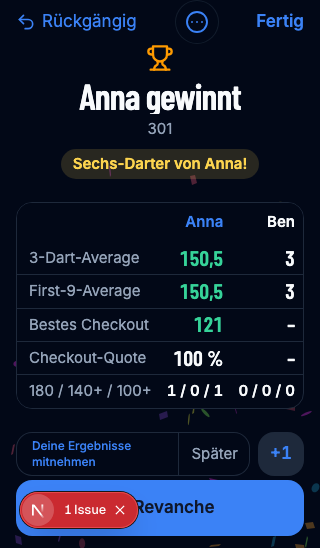
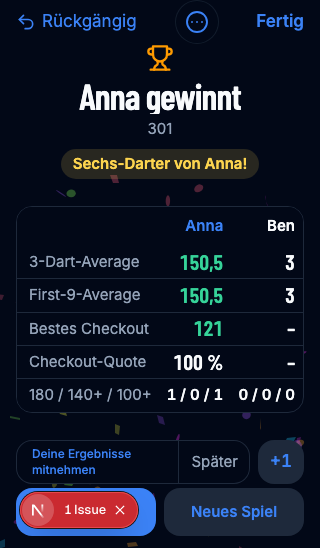
Update visual review for visible game actions

diff --git a/docs/ux/ui-density-review/plan.html b/docs/ux/ui-density-review/plan.html
@@ -11,27 +11,27 @@
 <header class="hero"><div class="wrap"><div class="eyebrow">BlueLine · UI / UX review</div><h1>A cleaner game, with the details in reach.</h1><p>Before-and-after evidence, an adversarial review, and the remaining plan for the 15 reported issues.</p><div class="meta"><span>Branch: ux/darts-usability</span><span>Baseline: origin/main · 2a857eb</span><span>Review: 28 October 2026</span></div></div></header>
 <nav aria-label="Page sections"><div class="wrap"><a href="#overview">Overview</a><a href="#compare">Before / after</a><a href="#assessment">15 issues</a><a href="#review">Red / blue review</a><a href="#plan">Delivery plan</a><a href="#evidence">Evidence</a></div></nav>
 <main class="wrap">
-<section id="overview"><h2>What changed</h2><p class="lead">The branch gives the result statistics more room, makes leaderboard sections visible, reduces repeated club empty states, and improves several smaller screens. This is a review of the current branch and a plan for the remaining work.</p><div class="grid"><div class="card"><div class="number">722</div><h3>Automated tests passed</h3><p>Full unit suite, plus type checking and lint, passed after the latest UI changes.</p></div><div class="card"><div class="number">3</div><h3>Viewport sizes checked</h3><p>320 × 548, 568 × 320, and 768 × 1024 in Chromium. Coverage differs by screen.</p></div><div class="card"><div class="number">2</div><h3>Languages exercised</h3><p>German and English: keyboard navigation and applying the leaderboard filters.</p></div></div><div class="notice"><strong>Review state:</strong> the red-team analysis and proposed blue-team responses are documented below. Several responses remain implementation or verification work; this page does not claim the 15 issues are all finished.</div></section>
+<section id="overview"><h2>What changed</h2><p class="lead">The branch gives the result statistics more room, makes leaderboard sections visible, reduces repeated club empty states, and improves several smaller screens. This is a review of the current branch and a plan for the remaining work.</p><div class="grid"><div class="card"><div class="number">723</div><h3>Automated tests passed</h3><p>Full unit suite, plus type checking and lint, passed after the latest UI changes.</p></div><div class="card"><div class="number">3</div><h3>Viewport sizes checked</h3><p>320 × 548, 568 × 320, and 768 × 1024 in Chromium. Coverage differs by screen.</p></div><div class="card"><div class="number">2</div><h3>Languages exercised</h3><p>German and English: keyboard navigation and applying the leaderboard filters.</p></div></div><div class="notice"><strong>Review state:</strong> the red-team analysis and proposed blue-team responses are documented below. Several responses remain implementation or verification work; this page does not claim the 15 issues are all finished.</div></section>
 <section id="compare"><h2>Before and after</h2><p class="lead">These are real browser captures. Sample data, theme and language are identified below each pair; compare the layout and hierarchy, not the numerical results.</p><div class="pairs">
-<article class="pair"><div class="pair-head"><div><h3>01 · Result on a small phone</h3><div class="small">Secondary actions move to a menu; the statistics gain vertical space.</div></div><span class="tag done">Implemented</span></div><div class="compare"><figure class="frame"><b>Before · main</b><img src="before-result-320.jpg" alt="Original result on a small phone with two large buttons and four secondary actions"><figcaption class="caption">320 × 548; English; stake shown.</figcaption></figure><figure class="frame"><b>After · branch</b><img src="dart-result-320.png" alt="Updated result on a small phone with one primary button and a menu"><figcaption class="caption">320 × 548; German; profile notice shown. Different sample state.</figcaption></figure></div></article>
+<article class="pair"><div class="pair-head"><div><h3>01 · Result on a small phone</h3><div class="small">Rematch and new game share one row; secondary actions move to a menu, giving the statistics more room.</div></div><span class="tag done">Implemented</span></div><div class="compare"><figure class="frame"><b>Before · main</b><img src="before-result-320.jpg" alt="Original result on a small phone with two large buttons and four secondary actions"><figcaption class="caption">320 × 548; English; stake shown.</figcaption></figure><figure class="frame"><b>After · branch</b><img src="dart-result-320.png" alt="Updated result on a small phone with two next-game actions and a menu"><figcaption class="caption">320 × 548; German; profile notice shown. Different sample state.</figcaption></figure></div></article>
 <article class="pair"><div class="pair-head"><div><h3>02 · Rangliste header</h3><div class="small">Four visible sections, one filter entry, and context moved below the standings.</div></div><span class="tag partial">Needs populated review</span></div><div class="compare"><figure class="frame"><b>Before · main</b><img src="before-ranks-320.jpg" alt="Original populated leaderboard with scrolling pills, two filters and explanation above the rows"><figcaption class="caption">320 × 548; populated fixture; light theme.</figcaption></figure><figure class="frame"><b>After · branch</b><img src="dart-ranks-320.png" alt="Updated empty leaderboard with four visible sections and one filter"><figcaption class="caption">320 × 548; empty fixture; dark theme. Rows cannot be compared with this capture.</figcaption></figure></div></article>
-<article class="pair"><div class="pair-head"><div><h3>04 · Six-player X01</h3><div class="small">Unique first names stay legible while the accessible player label retains the full name.</div></div><span class="tag partial">Collision cases open</span></div><div class="compare"><figure class="frame"><b>Before · main</b><img src="before-game-320.jpg" alt="Original six-player scoreboard with tiny long player names"><figcaption class="caption">320 × 548; long-name fixture; light theme.</figcaption></figure><figure class="frame"><b>After · branch</b><img src="dart-game-320.png" alt="Updated six-player scoreboard with shorter readable names"><figcaption class="caption">320 × 548; same example names; dark theme.</figcaption></figure></div></article>
+<article class="pair"><div class="pair-head"><div><h3>04 · Six-player X01</h3><div class="small">Short distinct names stay legible while the accessible player label retains the full name.</div></div><span class="tag partial">Collision cases open</span></div><div class="compare"><figure class="frame"><b>Before · main</b><img src="before-game-320.jpg" alt="Original six-player scoreboard with tiny long player names"><figcaption class="caption">320 × 548; long-name fixture; light theme.</figcaption></figure><figure class="frame"><b>After · branch</b><img src="dart-game-320.png" alt="Updated six-player scoreboard with shorter readable names"><figcaption class="caption">320 × 548; same example names; dark theme.</figcaption></figure></div></article>
 </div><p class="small">Additional captures: <a href="dart-result-568.png">landscape result</a>, <a href="dart-game-568.png">landscape game</a>, <a href="dart-filter-568.png">landscape filter</a>.</p></section>
 <section id="assessment"><h2>The 15 issues</h2><p class="lead">“Implemented” describes code present on the branch, not a guarantee of complete device or interaction coverage.</p><div class="tablebox"><table><thead><tr><th>Issue</th><th>Current branch</th><th>Status</th><th>Next decision or check</th></tr></thead><tbody>
-<tr><td>1 · Result</td><td>One primary action; secondary actions in a menu.</td><td><span class="tag done">Implemented</span></td><td>Verify tournament, stake and award combinations; inspect menu contrast after animation.</td></tr>
+<tr><td>1 · Result</td><td>Rematch and new game stay visible together; less frequent actions are in a menu.</td><td><span class="tag done">Implemented</span></td><td>Verify tournament, stake and award combinations; inspect menu contrast after animation.</td></tr>
 <tr><td>2 · Rangliste header</td><td>Visible segments, one filter sheet, explanation below rows.</td><td><span class="tag partial">Partial</span></td><td>Review populated rows, large text and localized labels.</td></tr>
 <tr><td>3 · Rows / duplicate player</td><td>Import badges replaced with symbols and legend; identities remain separate.</td><td><span class="tag partial">Partial</span></td><td>Design an explicit reversible identity link, with conflict protection.</td></tr>
-<tr><td>4 · Six players</td><td>Unique first names on X01; accessible label retains full name.</td><td><span class="tag partial">Partial</span></td><td>Collision, single-word names, Cricket and Clock, at compact sizes.</td></tr>
+<tr><td>4 · Six players</td><td>Short distinct labels on crowded boards; accessible labels retain full names.</td><td><span class="tag partial">Partial</span></td><td>Collision and long-name X01 checked; verify Cricket and Clock at compact sizes.</td></tr>
 <tr><td>5 · Club</td><td>Empty sections grouped; pull gesture and explicit refresh available.</td><td><span class="tag partial">Partial</span></td><td>Real touch, offline, errors, scrolling and nested interaction checks.</td></tr>
 <tr><td>6 · Finished tournament</td><td>Compact result card; “Leiten” is plain text.</td><td><span class="tag partial">Needs review</span></td><td>Capture organizer, player and award states on SE and landscape.</td></tr>
 <tr><td>7 · Explanations</td><td>Some profile and club copy shortened; leaderboard context moved.</td><td><span class="tag partial">Partial</span></td><td>Review visibility, history, setup, payment and discovery copy together.</td></tr>
 <tr><td>8 · Empty states</td><td>Recent-player empty messages are plain muted text.</td><td><span class="tag partial">Needs review</span></td><td>Verify both sheets with no candidates and with a populated list.</td></tr>
-<tr><td>9 · Other profile</td><td>Relationship, sharing and add-to-game actions still have similar weight.</td><td><span class="tag open">Open</span></td><td>Define primary action per friendship state; retain remove and withdraw actions.</td></tr>
+<tr><td>9 · Other profile</td><td>Add to game is prominent; sharing is in the bar and friendship state is quieter.</td><td><span class="tag partial">Needs review</span></td><td>Verify friendship states, sharing and both request actions on device.</td></tr>
 <tr><td>10 · Setup</td><td>Rules text moved below players into the rules group.</td><td><span class="tag partial">Partial</span></td><td>Consolidate add / scan choices; keep saved rounds discoverable.</td></tr>
 <tr><td>11 · Own profile</td><td>Scope caption remains visible because it explains the figures.</td><td><span class="tag open">Open</span></td><td>Shorten or relocate the scope without hiding its meaning.</td></tr>
 <tr><td>12 · Payment card</td><td>Fresh exchange-rate timestamp hidden; old rate and stale balance remain distinct.</td><td><span class="tag partial">Needs review</span></td><td>Check fresh, stale, unavailable and offline states.</td></tr>
 <tr><td>13 · Tournament progress</td><td>Current phase and “Step X of 5” replace tiny labels.</td><td><span class="tag partial">Needs review</span></td><td>Verify paused, finished and translated states.</td></tr>
-<tr><td>14 · Clubs / tournaments</td><td>One “+” menu contains create and scan.</td><td><span class="tag partial">Needs review</span></td><td>Update end-to-end entry paths and verify empty states.</td></tr>
+<tr><td>14 · Clubs / tournaments</td><td>Labeled scan action and create button remain visible.</td><td><span class="tag partial">Needs review</span></td><td>Update end-to-end entry paths and verify empty states.</td></tr>
 <tr><td>15 · Tablet</td><td>Game-choice cards receive more height on tablet.</td><td><span class="tag partial">Needs review</span></td><td>Check portrait and landscape; decide whether recent games add useful value.</td></tr>
 </tbody></table></div></section>
 <section id="review"><h2>Red team / blue team</h2><p class="lead">The red team asks how the interface or data can fail. The blue team proposes or applies a response. This is one code-and-browser review, not a claim of independent external testers or real-device certification.</p><div class="card">
@@ -41,7 +41,7 @@
 <div class="risk"><strong class="partial">MED · CONTEXT</strong><div><h3>Import markers must remain understandable</h3><p class="small"><b>Red:</b> an asterisk may be ambiguous or its legend may be off screen. <b>Blue:</b> provide a legend and full accessible label; verify a populated list and the player detail, with screen reader and larger text. <b>Status:</b> implemented; populated and assistive-technology review open.</p></div></div>
 <div class="risk"><strong class="partial">MED · INPUT</strong><div><h3>Segmented controls need keyboard support</h3><p class="small"><b>Red:</b> replacing scrolling pills removed arrow-key behavior. <b>Blue:</b> added arrow navigation and a single tab stop. <b>Evidence:</b> selection and focus moved correctly at 320, 568 and 768 px in German and English.</p></div></div>
 <div class="risk"><strong class="partial">MED · SPACE</strong><div><h3>Compact menus can hide essential actions</h3><p class="small"><b>Red:</b> a short landscape sheet may place its second filter below the fold; menus also add a tap. <b>Blue:</b> the filter body scrolls with Done pinned, while the chosen values remain visible. <b>Evidence:</b> Cricket and Today were selected and retained at all three sizes in both languages. Check larger text and screen readers.</p></div></div>
-<div class="risk"><strong class="partial">MED · TESTS</strong><div><h3>End-to-end scripts can silently test old flows</h3><p class="small"><b>Red:</b> the evening script still references the old Rangliste label and direct scan actions. <b>Blue:</b> update the script to open the new menus and filters, then run the complete darts evening with relays. <b>Status:</b> open; unit tests do not substitute for this run.</p></div></div>
+<div class="risk"><strong class="partial">MED · TESTS</strong><div><h3>End-to-end scripts can silently test old flows</h3><p class="small"><b>Red:</b> the evening script can break when control labels and interactions change. <b>Blue:</b> the leaderboard filter steps were updated; run the complete darts evening with relays. <b>Status:</b> open; unit tests do not substitute for this run.</p></div></div>
 <div class="risk"><strong class="partial">MED · TRUST</strong><div><h3>Rate age and balance age are different</h3><p class="small"><b>Red:</b> one timestamp can mislead when a fresh rate is paired with a stale balance. <b>Blue:</b> show an old-rate timestamp and retain the balance timestamp on refresh failure; exercise offline and old-data states. <b>Status:</b> code changed; wallet-state interaction review open.</p></div></div>
 </div></section>
 <section id="plan"><h2>Final delivery plan</h2><p class="lead">The sequence keeps the game usable at each step and reserves identity changes for a separately reviewable commit.</p><div class="steps">
@@ -49,7 +49,7 @@
 <div class="step"><div><h3>Make six-player names robust</h3><p>Design disambiguated labels for duplicate first names and long single words. Verify X01, Cricket and Clock with full names available to assistive technology and no clipped scores.</p></div></div>
 <div class="step"><div><h3>Link players safely</h3><p>Implement an explicit, reversible association between a guest and a profile, with a preview, collision checks, and tests for rankings, profile history and head-to-head statistics. Preserve separate people when identity is uncertain.</p></div></div>
 <div class="step"><div><h3>Finish club and tournament states</h3><p>Test refresh gestures, explicit refresh, stale and offline states, and empty-state creation paths. Capture finished-tournament participant, organizer and award states; review progress in both languages.</p></div></div>
-<div class="step"><div><h3>Finish the remaining hierarchy and copy</h3><p>Clarify profile actions across relationship states; consolidate setup entry choices while preserving saved rounds; shorten explanations without removing privacy or statistics context. Review wallet age labels and tablet layout.</p></div></div>
+<div class="step"><div><h3>Finish the remaining hierarchy and copy</h3><p>Verify profile actions across relationship states; refine setup entry choices while preserving saved rounds; shorten explanations without removing privacy or statistics context. Review wallet age labels and tablet layout.</p></div></div>
 <div class="step"><div><h3>Run the complete regression and update evidence</h3><p>Update the darts-evening script for the new menus and filters. Run the full suite, the end-to-end evening with relays, keyboard and screen-reader checks, and real iPhone / iPad touch checks. Commit fixes and screenshots per issue; refresh this page with matched before-and-after fixtures.</p></div></div>
 </div></section>
 <section id="evidence"><h2>Evidence and boundaries</h2><div class="grid"><div class="card"><h3>Code and tests</h3><p><a href="REVIEW.md">Review notes</a> · <a href="../../../components/game/match-result.tsx">Result screen</a> · <a href="../../../components/leaderboard/device-section.tsx">Leaderboard</a> · <a href="../../../components/clubs/club-screen.tsx">Club page</a></p></div><div class="card"><h3>Design references</h3><p><a href="https://developer.apple.com/design/human-interface-guidelines/menus">Apple: menus</a> · <a href="https://developer.apple.com/design/human-interface-guidelines/accessibility">Apple: accessibility</a> · <a href="https://developer.apple.com/design/human-interface-guidelines/writing">Apple: writing</a></p></div><div class="card"><h3>Darts reference</h3><p><a href="https://app.dartconnect.com/">DartConnect</a> documents quick rematches, score correction and access to game statistics; the branch keeps these core actions accessible.</p></div></div><p class="small" style="margin-top:20px">Evidence is from local Chromium, not a real iPhone or iPad. Screenshots include a development overlay in some captures. The current review does not cover every state, language, theme or screen reader.</p></section>

diff --git a/docs/ux/ui-density-review/REVIEW.md b/docs/ux/ui-density-review/REVIEW.md
@@ -7,7 +7,7 @@ Baseline: origin/main at 2a857eb. Screenshots are from Chromium against the loca
 - `dart-ranks-320.png`: empty leaderboard at 320 × 548; all four sections are visible.
 - `dart-filter-568.png`: filter sheet at 568 × 320; its body scrolls.
 - `dart-game-320.png` and `dart-game-568.png`: six-player X01 at 320 × 548 and 568 × 320; names and scores remain visible for the sample players.
-- `dart-result-320.png` and `dart-result-568.png`: completed two-player X01 at those sizes. The result menu was opened and exposed New Game, Share, Statistics, Visits and Leaderboard.
+- `dart-result-320.png` and `dart-result-568.png`: completed two-player X01 at those sizes. New Game remains visible next to Rematch; the result menu exposed Share, Statistics, Visits and Leaderboard.
 
 ## Red-team findings and blue-team response
 
@@ -15,10 +15,10 @@ Baseline: origin/main at 2a857eb. Screenshots are from Chromium against the loca
 | --- | --- | --- |
 | A segmented radio group lacked arrow-key navigation after replacing scrollable pills. | Added arrow-key navigation and roving tab stops. | Verified arrow-key focus and selection at 320, 568 and 768 px in German and English. |
 | Matching names do not prove two rows are the same player; some people can share a name or even appear in the same game. | Preserve separate identities until an explicit, reversible linking flow is designed and tested. | Open. |
-| Two players can share a first name, and long names can still exceed a short game tile. | Full names are retained when first names collide. | Needs collision and long-name layout tests across X01, Cricket and Clock. |
+| Two players can share a first name, and long names can still exceed a short game tile. | Short labels distinguish collisions while accessible labels retain full names. | Collision and long-name X01 checked at 320 and 568; Cricket and Clock still need layout tests. |
 | Pull-to-refresh can conflict with scrolling and must remain accessible to non-touch users. | A downward gesture at the top triggers refresh; the existing explicit refresh action remains. | Implemented; needs real touch and offline/error interaction tests. |
 | Import provenance can be lost when badges are removed. | Separate symbols and a legend preserve the distinction; screen readers receive the full labels. | Implemented; needs populated-list and screen-reader testing. |
 | A compact filter sheet can hide its later controls in landscape. | Its contents have a scrolling body with a pinned Done action. | Verified selecting Cricket and Today at all three sizes in German and English; larger-text and screen-reader checks remain. |
 | Existing evening and screenshot scripts refer to old labels and direct scan actions. | Matrix section labels were updated. | Evening flow and filter interactions need updating and running. |
 
-The full suite passed 722 tests after the club, tournament, payment, setup and copy changes. Type checking and lint also passed. A full end-to-end run remains necessary. Other requested UI improvements remain open, including profile action hierarchy and safe player linking. The review findings and proposed responses are consolidated in plan.html; open fixes and device checks remain.
+The full suite passed 723 tests after the club, tournament, payment, setup and copy changes. Type checking and lint also passed. A full end-to-end run remains necessary. Other requested UI improvements remain open, including safe player linking and further interaction verification. The review findings and proposed responses are consolidated in plan.html; open fixes and device checks remain.
